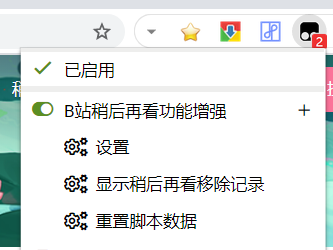
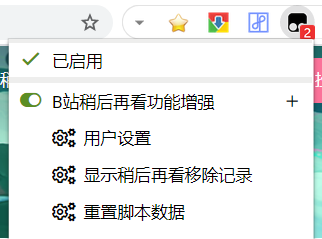
B站稍后再看增强
1. 重定向时停止原页面的加载
2. @include account.bilibili.com
3. UI 微调

diff --git a/BilibiliWatchlaterPlus/BilibiliWatchlaterPlus.js b/BilibiliWatchlaterPlus/BilibiliWatchlaterPlus.js
@@ -1,7 +1,7 @@
 // ==UserScript==
 // @id             BilibiliWatchlaterPlus@Laster2800
 // @name           B站稍后再看功能增强
-// @version        2.3.0.20200715
+// @version        2.3.1.20200715
 // @namespace      laster2800
 // @author         Laster2800
 // @description    B站稍后再看功能增强，目前功能包括UI增强、重定向至常规播放页、稍后再看移除记录等，支持功能设置
@@ -11,6 +11,7 @@
 // @include        *://search.bilibili.com/*
 // @include        *://space.bilibili.com/*
 // @include        *://t.bilibili.com/*
+// @include        *://account.bilibili.com/*
 // @exclude        *://message.bilibili.com/pages/*
 // @grant          GM_addStyle
 // @grant          GM_xmlhttpRequest
@@ -76,6 +77,7 @@
 
   // 重定向，document-start 就执行，尽可能快地将原页面掩盖过去
   if (redirect && /bilibili.com\/medialist\/play\/watchlater\//.test(location.href)) {
+    window.stop() // 停止原页面的加载
     GM_xmlhttpRequest({
       method: 'GET',
       url: `https://api.bilibili.com/x/v2/history/toview/web?jsonp=jsonp`,
@@ -283,7 +285,7 @@
 
     // 脚本菜单
     // 用户配置设置
-    GM_registerMenuCommand('设置', openUserSetting)
+    GM_registerMenuCommand('用户设置', openUserSetting)
     if (!init) {
       openUserSetting(true)
     }
